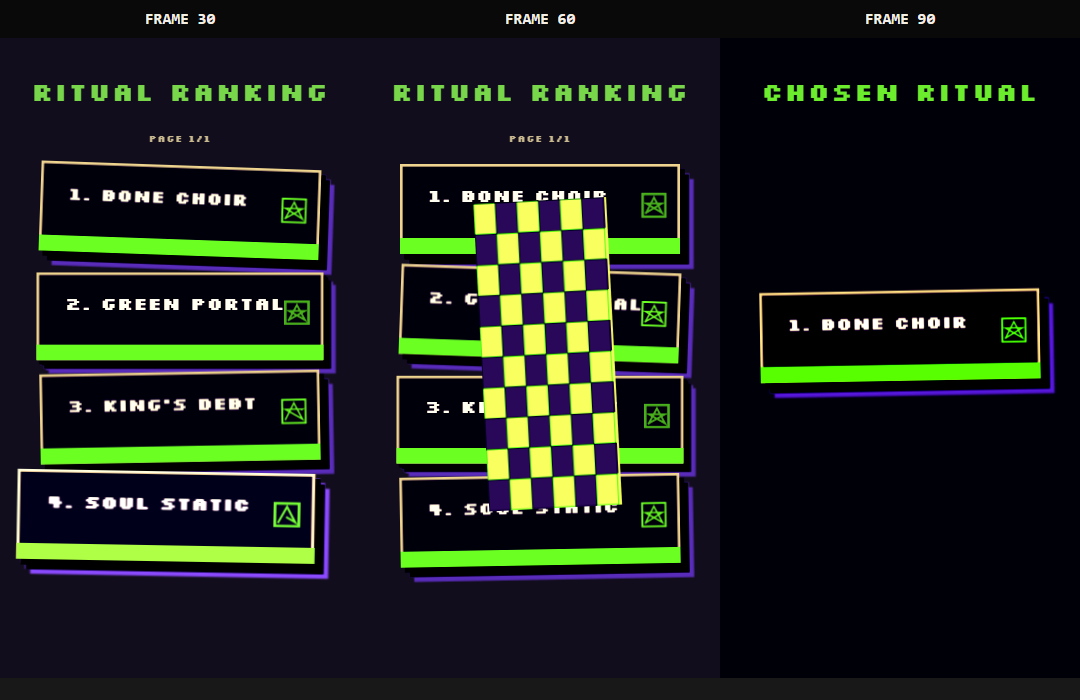
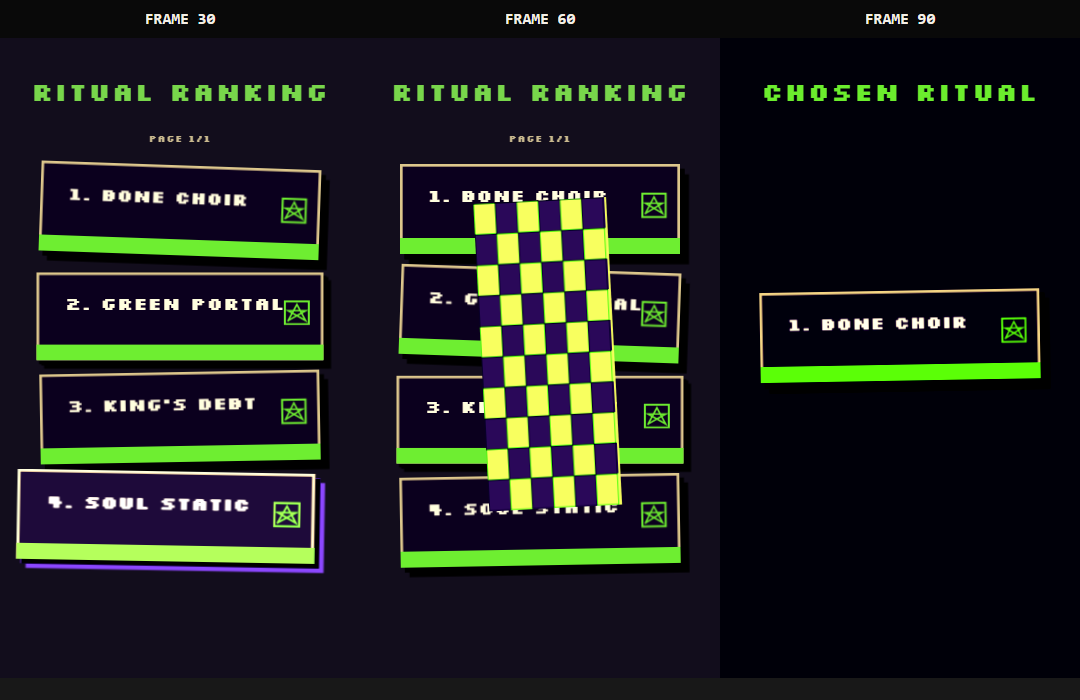
Add Norman-shaped online agent output

diff --git a/misc/test-runs/tests/compositions.test.js b/misc/test-runs/tests/compositions.test.js
@@ -3,13 +3,17 @@ import test from 'node:test';
 
 import { ArchivalDossierComposition } from '@cut3/agent-memory/compositions/ArchivalDossierComposition';
 import { RetroRitualRankingComposition } from '@cut3/agent-memory/compositions/RetroRitualRankingComposition';
+import { ritualOffer } from '@cut3/agent-memory/compositions/RitualOffer';
 import { SignalEditorialComposition } from '@cut3/agent-memory/compositions/SignalEditorialComposition';
 import { Engine, visitUnits } from '@cut3/agent-memory/core/Engine';
+import { projectUnit } from '@cut3/agent-memory/core/frame';
 import { memoryCatalog } from '@cut3/agent-memory/catalog';
 import { Box } from '@cut3/agent-memory/units/base/Box';
+import { CompositionPivot } from '@cut3/agent-memory/units/base/CompositionPivot';
 import { Layer } from '@cut3/agent-memory/units/base/Layer';
 import { Text } from '@cut3/agent-memory/units/base/Text';
 import { SignalHeadlineBand } from '@cut3/agent-memory/units/signal-editorial/SignalHeadlineBand';
+import { RitualOfferCard } from '@cut3/agent-memory/units/retro-ritual/RitualOfferCard';
 
 const compositions = [
   ['signal-editorial', SignalEditorialComposition, 60],
@@ -37,6 +41,39 @@ for (const [name, CompositionClass, transitionFrame] of compositions) {
   });
 }
 
+test('online-agent output is a plain Norman-shaped builder with explicit ordered Behaviours', () => {
+  const undecorated = new RitualOfferCard(new Text('STATIC TREE'));
+  const unit = ritualOffer('RUNTIME TEXT');
+  const behaviourKinds = unit.behaviours.map((behaviour) => behaviour.constructor.kind);
+  const hiddenBehaviourKinds = [];
+  const texts = [];
+  visitUnits(undecorated, (child) => {
+    hiddenBehaviourKinds.push(
+      ...child.behaviours.map((behaviour) => behaviour.constructor.kind),
+    );
+  });
+  visitUnits(unit, (child) => {
+    if (child instanceof Text) texts.push(child.text);
+  });
+
+  assert.ok(unit instanceof RitualOfferCard);
+  assert.deepEqual(
+    hiddenBehaviourKinds,
+    [],
+    'Unit constructor must not hide optional motion anywhere in its tree',
+  );
+  assert.deepEqual(behaviourKinds, [
+    'behaviour.retro-ritual.ritual-card-deal',
+    'behaviour.retro-ritual.bone-idle-hop',
+  ]);
+  assert.deepEqual(texts, ['RUNTIME TEXT']);
+  assert.ok(unit.children.length > 0, 'builder must return a nested Unit tree');
+  assert.equal(projectUnit(unit, { frame: 0 }).opacity, 0);
+  assert.notEqual(projectUnit(unit, { frame: 8 }).pose.x, 0);
+  assert.match(projectUnit(unit, { frame: 24 }).effects.shadow, /#09060f/u);
+  assert.throws(() => ritualOffer({ text: 'not a string' }), /must be a string/u);
+});
+
 test('ranking cardinality is data: two and twenty items use the same RitualOfferCard', () => {
   const two = new RetroRitualRankingComposition({ items: ['A', 'B'] });
   const twenty = new RetroRitualRankingComposition({
@@ -56,8 +93,8 @@ test('ranking cardinality is data: two and twenty items use the same RitualOffer
 
   const engine = new Engine(twenty);
   for (const frame of [30, 102, 174, 246, 318]) {
-    const cards = findOutput(engine.at({ frame }), (node) => node.name === 'ritual-offer-card')
-      .map((node) => node.frame.y)
+    const cards = findOutput(engine.at({ frame }), (node) => node.name === 'ritual-offer-placement')
+      .map((node) => node.pose.y)
       .sort((left, right) => left - right);
     assert.ok(cards.length >= 1 && cards.length <= 4);
     for (let index = 1; index < cards.length; index += 1) {
@@ -67,7 +104,8 @@ test('ranking cardinality is data: two and twenty items use the same RitualOffer
 });
 
 test('catalog contains code locations and visual traits, never scores or confidence', () => {
-  assert.equal(memoryCatalog.length, 24);
+  assert.equal(memoryCatalog.length, 21);
+  assert.ok(memoryCatalog.every((entry) => ['behaviour', 'unit'].includes(entry.type)));
   assert.ok(memoryCatalog.every((entry) => entry.import.startsWith('@cut3/agent-memory/')));
   assert.ok(memoryCatalog.every((entry) => entry.preserves.length >= 2));
   assert.doesNotMatch(JSON.stringify(memoryCatalog), /confidence|score|probability/iu);
@@ -109,7 +147,7 @@ test('every CompositionPivot is rooted in an unshifted full-composition containi
     RetroRitualRankingComposition,
   ]) {
     visitUnits(new CompositionClass(), (unit) => {
-      if (unit.constructor.kind !== 'unit.composition-pivot') return;
+      if (!(unit instanceof CompositionPivot)) return;
       for (let ancestor = unit.parent; ancestor; ancestor = ancestor.parent) {
         if (!(ancestor instanceof Box || ancestor instanceof Layer)) continue;
         assert.equal(ancestor.frame.x, 0);

diff --git a/src/units/retro-ritual/RitualOfferCard.js b/src/units/retro-ritual/RitualOfferCard.js
@@ -1,22 +1,17 @@
-import { requireUnit, Unit } from '@cut3/agent-memory/core/Unit';
+import { requireUnit } from '@cut3/agent-memory/core/Unit';
 import { requireDetachedUnit } from '@cut3/agent-memory/core/ownership';
-import { finite } from '@cut3/agent-memory/core/timeline';
-import { BoneIdleHop } from '@cut3/agent-memory/behaviours/retro-ritual/BoneIdleHop';
-import { RitualCardDeal } from '@cut3/agent-memory/behaviours/retro-ritual/RitualCardDeal';
-import { RuneTrace } from '@cut3/agent-memory/behaviours/retro-ritual/RuneTrace';
 import { Box } from '@cut3/agent-memory/units/base/Box';
 import { CompositionPivot } from '@cut3/agent-memory/units/base/CompositionPivot';
 import { Layer } from '@cut3/agent-memory/units/base/Layer';
 import { VectorPath } from '@cut3/agent-memory/units/base/VectorPath';
 
-/** Pixel-necromancy ranking card: bone frame, soul-green rune and held hop. */
-export class RitualOfferCard extends Unit {
+/** Static pixel-necromancy card; the builder chooses and orders its motion. */
+export class RitualOfferCard extends CompositionPivot {
   static kind = 'unit.retro-ritual.offer-card';
 
-  constructor(content, options = {}) {
+  constructor(content) {
     requireUnit(content, 'RitualOfferCard content');
     requireDetachedUnit(content, 'RitualOfferCard content');
-    const top = finite(options.y ?? 0, 'RitualOfferCard y');
     if (content.constructor.kind === 'unit.text') {
       content.frame = { x: 76, y: 58, width: 720, height: 154, z: 5 };
       content.paint = { ...content.paint, color: '#efe7cf' };
@@ -33,13 +28,13 @@ export class RitualOfferCard extends Unit {
     }
     const card = new Box(content, {
       effects: { shadow: '14px 14px 0 #09060f' },
-      frame: { x: 120, y: top, width: 840, height: 270, z: 4 },
+      frame: { x: 120, y: 0, width: 840, height: 270, z: 4 },
       overflow: 'hidden',
       paint: { fill: '#21172f', stroke: '#c9b98e', strokeWidth: 8 },
       name: 'ritual-offer-card',
     });
     const soulBar = new Box(undefined, {
-      frame: { x: 120, y: top + 222, width: 840, height: 48, z: 6 },
+      frame: { x: 120, y: 222, width: 840, height: 48, z: 6 },
       paint: { fill: '#78d64b' },
       name: 'soul-green-rank-bar',
     });
@@ -51,20 +46,19 @@ export class RitualOfferCard extends Unit {
       { command: 'line', x: 72, y: 32 },
       { command: 'close' },
     ], {
-      frame: { x: 844, y: top + 86, width: 76, height: 76, z: 8 },
+      frame: { x: 844, y: 86, width: 76, height: 76, z: 8 },
       paint: { stroke: '#78d64b', strokeWidth: 6 },
       viewBox: [0, 0, 80, 80],
     });
-    rune.add(new RuneTrace(rune));
     const cardStack = new Layer(card, {
       frame: { x: 0, y: 0, width: 1080, height: 1920 },
       name: 'ritual-card-stack',
     });
     cardStack.add(soulBar, rune);
-    const idlePivot = new CompositionPivot(cardStack, { x: 540, y: top + 135 });
-    idlePivot.add(new BoneIdleHop(idlePivot));
-    const dealPivot = new CompositionPivot(idlePivot, { x: 540, y: top + 135 });
-    dealPivot.add(new RitualCardDeal(dealPivot));
-    super(dealPivot);
+    super(cardStack, {
+      name: 'ritual-offer-card-motion',
+      x: 540,
+      y: 135,
+    });
   }
 }

diff --git a/src/online/agent-prompt.js b/src/online/agent-prompt.js
@@ -29,17 +29,33 @@ Behaviour contract:
 - never create Opacity, Scale, Translate, Blur, CSSProperty, Interpolate or library-import wrappers.
 
 Unit contract:
-- extend Unit directly and construct a real nested Unit tree;
+- extend a renderer-neutral renderable Unit base and construct a real nested Unit tree;
 - accept runtime content as Units; never embed customer text, URLs or transcripts;
 - use CompositionPivot for transforms and express its pivot in absolute composition coordinates;
+- keep optional entry/idle Behaviours out of the Unit constructor so the output function chooses and orders them explicitly;
 - keep renderer/backend fields out of Units and Behaviours.
+
+Required workspace output:
+- export a plain ESM builder function whose first argument is runtime content;
+- inside it, construct the root Unit, instantiate each named Behaviour with that exact Unit, call unit.addBehaviour(...) in authored order, and return the Unit;
+- the builder is executable application code, not a Composition class, descriptor, schema or JSON response;
+
+Shape:
+export function build(runtimeText) {
+  const unit = new StyledUnit(new Text(runtimeText));
+  const entry = new AuthoredEntry(unit);
+  const idle = new AuthoredIdle(unit);
+  unit.addBehaviour(entry);
+  unit.addBehaviour(idle);
+  return unit;
+}
 
 Module contract:
 - use only global @cut3/agent-memory/... ESM imports;
-- no dynamic imports, factories, registries, AST parsing or generated JSON;
+- no dynamic imports, factory registries, runtime factory abstractions, AST parsing or generated JSON;
 - write Behaviours to src/behaviours/<style>/, Units to src/units/<style>/;
 - update src/catalog.js by hand with import path, exact use cases and preserved visual traits;
-- add or update a composition under src/compositions/ that visibly proves reuse at different content/cardinality;
+- add or update a plain builder under src/compositions/ that visibly proves reuse at different content/cardinality;
 - add node:test coverage under misc/test-runs/tests/.
 - run npm test and npm run showcase inside the candidate; inspect its change set for customer text, URLs, transcripts and credentials.
 

diff --git a/src/compositions/RetroRitualRankingComposition.js b/src/compositions/RetroRitualRankingComposition.js
@@ -1,10 +1,11 @@
 import { Box } from '@cut3/agent-memory/units/base/Box';
 import { Composition } from '@cut3/agent-memory/units/base/Composition';
+import { ritualOffer } from '@cut3/agent-memory/compositions/RitualOffer';
+import { CompositionPivot } from '@cut3/agent-memory/units/base/CompositionPivot';
 import { Layer } from '@cut3/agent-memory/units/base/Layer';
 import { Shot } from '@cut3/agent-memory/units/base/Shot';
 import { Text } from '@cut3/agent-memory/units/base/Text';
 import { PortalTileTransition } from '@cut3/agent-memory/units/retro-ritual/PortalTileTransition';
-import { RitualOfferCard } from '@cut3/agent-memory/units/retro-ritual/RitualOfferCard';
 
 /** Arbitrary-cardinality ranking assembled from one reusable ritual card Unit. */
 export class RetroRitualRankingComposition extends Composition {
@@ -53,7 +54,7 @@ function rankingPage(items, pageIndex, pageCount, duration) {
   const root = ritualBackground('RITUAL RANKING', `PAGE ${pageIndex + 1}/${pageCount}`);
   items.forEach((item, index) => {
     const rank = (pageIndex * 4) + index + 1;
-    const card = new RitualOfferCard(new Text(`${rank}. ${String(item)}`), {
+    const card = place(ritualOffer(`${rank}. ${String(item)}`), {
       y: 390 + (index * 310),
     });
     root.add(new Shot(card, {
@@ -67,8 +68,15 @@ function rankingPage(items, pageIndex, pageCount, duration) {
 
 function winnerScene(winner) {
   const root = ritualBackground('CHOSEN RITUAL');
-  root.add(new RitualOfferCard(new Text(`1. ${String(winner)}`), { y: 770 }));
+  root.add(place(ritualOffer(`1. ${String(winner)}`), { y: 770 }));
   return root;
+}
+
+function place(unit, pose) {
+  return new CompositionPivot(unit, {
+    name: 'ritual-offer-placement',
+    pose,
+  });
 }
 
 function ritualBackground(title, page = '') {

diff --git a/src/behaviours/retro-ritual/BoneIdleHop.js b/src/behaviours/retro-ritual/BoneIdleHop.js
@@ -6,26 +6,28 @@ export class BoneIdleHop extends Behaviour {
   static kind = 'behaviour.retro-ritual.bone-idle-hop';
 
   constructor(unit) {
-    super(requireOwnerKind(unit, 'unit.composition-pivot', 'BoneIdleHop'));
+    super(requireOwnerKind(unit, 'unit.retro-ritual.offer-card', 'BoneIdleHop'));
   }
 
   onFrame({ frame }) {
     const phase = (Math.floor(frame / 2) % 12) / 12;
     const hop = Math.max(0, Math.sin(phase * Math.PI));
     const height = Math.round(hop * -12);
+    const groundedSquash = hop === 0 ? 0.025 : 0;
     this.unit.pose = {
       ...this.unit.pose,
-      rotate: Math.round(Math.sin(phase * Math.PI * 2) * 1.5),
-      scaleX: 1 + (hop === 0 ? 0.025 : 0),
-      scaleY: 1 - (hop === 0 ? 0.025 : 0),
-      y: height,
+      rotate: this.unit.pose.rotate + Math.round(Math.sin(phase * Math.PI * 2) * 1.5),
+      scaleX: this.unit.pose.scaleX * (1 + groundedSquash),
+      scaleY: this.unit.pose.scaleY * (1 - groundedSquash),
+      y: this.unit.pose.y + height,
     };
     this.unit.effects = {
       ...this.unit.effects,
       blur: 0,
-      brightness: 1,
-      contrast: 1.24,
-      shadow: `${8 + Math.round(hop * 5)}px ${10 + Math.round(hop * 7)}px 0 #09060f`,
+      contrast: Math.max(this.unit.effects.contrast, 1.24),
+      shadow: frame < 16
+        ? this.unit.effects.shadow
+        : `${8 + Math.round(hop * 5)}px ${10 + Math.round(hop * 7)}px 0 #09060f`,
     };
   }
 }

diff --git a/src/catalog.js b/src/catalog.js
@@ -86,18 +86,6 @@ const entries = [
     ['transition to ranking winner'],
     ['six-by-ten mosaic', 'hard pixel border', 'green-purple checker']),
 
-  memory('unit.composition.signal-editorial', 'composition', 'signal-editorial',
-    '@cut3/agent-memory/compositions/SignalEditorialComposition',
-    ['vertical social opener'],
-    ['media plate', 'headline band', 'razor transition']),
-  memory('unit.composition.archival-dossier', 'composition', 'archival-dossier',
-    '@cut3/agent-memory/compositions/ArchivalDossierComposition',
-    ['podcast quote video', 'documentary excerpt'],
-    ['photo evidence', 'carbon transcript', 'casefile shutter']),
-  memory('unit.composition.retro-ritual-ranking', 'composition', 'retro-ritual',
-    '@cut3/agent-memory/compositions/RetroRitualRankingComposition',
-    ['ranking video', 'list reveal'],
-    ['arbitrary card count', 'ritual cards', 'portal winner cut']),
 ];
 
 export const memoryCatalog = Object.freeze(entries);

diff --git a/src/compositions/RitualOffer.js b/src/compositions/RitualOffer.js
@@ -1,0 +1,18 @@
+import { BoneIdleHop } from '@cut3/agent-memory/behaviours/retro-ritual/BoneIdleHop';
+import { RitualCardDeal } from '@cut3/agent-memory/behaviours/retro-ritual/RitualCardDeal';
+import { Text } from '@cut3/agent-memory/units/base/Text';
+import { RitualOfferCard } from '@cut3/agent-memory/units/retro-ritual/RitualOfferCard';
+
+/** Plain Norman-shaped output produced by an online coding agent. */
+export function ritualOffer(text) {
+  if (typeof text !== 'string') throw new TypeError('ritualOffer text must be a string');
+
+  const unit = new RitualOfferCard(new Text(text));
+  const entry = new RitualCardDeal(unit);
+  const animation = new BoneIdleHop(unit);
+
+  unit.addBehaviour(entry);
+  unit.addBehaviour(animation);
+
+  return unit;
+}

diff --git a/misc/test-runs/tests/online.test.js b/misc/test-runs/tests/online.test.js
@@ -381,6 +381,9 @@ test('agent prompt describes an isolated code-writing candidate, not AST admissi
   assert.match(prompt, /compile, tests, render, privacy and semantic evidence/iu);
   assert.match(prompt, /preserves:/iu);
   assert.match(prompt, /context\.frame for Shot-local motion/iu);
+  assert.match(prompt, /plain ESM builder function/iu);
+  assert.match(prompt, /unit\.addBehaviour\(entry\)/u);
+  assert.match(prompt, /not a Composition class, descriptor, schema or JSON response/iu);
   assert.doesNotMatch(prompt, /confidence|probability|source parser/iu);
   assert.doesNotMatch(prompt, /task summary|composition module/iu);
 });

diff --git a/src/behaviours/retro-ritual/RitualCardDeal.js b/src/behaviours/retro-ritual/RitualCardDeal.js
@@ -7,7 +7,7 @@ export class RitualCardDeal extends Behaviour {
   static kind = 'behaviour.retro-ritual.ritual-card-deal';
 
   constructor(unit) {
-    super(requireOwnerKind(unit, 'unit.composition-pivot', 'RitualCardDeal'));
+    super(requireOwnerKind(unit, 'unit.retro-ritual.offer-card', 'RitualCardDeal'));
   }
 
   onFrame({ frame }) {

diff --git a/VERIFY.md b/VERIFY.md
@@ -16,6 +16,8 @@ The catalog is now ordinary static ESM in `src/catalog.js`. It contains only:
 
 There are no confidence scores, generated metadata or dynamic loaders.
 
+The catalog contains only reusable Units and Behaviours. Full compositions and output builders are application code that consumes memory, not memory entries themselves.
+
 ## Source model
 
 Norman the Necromancer does not define a formal CBA specification or a Unit tree. Its actual model is a flat list of `GameObject` instances, each owning an ordered list of Behaviours. The reusable idea is semantic ownership: `March`, `Bleeding`, `Seeking` and `Summon` retain complete actions instead of wrapping individual fields.
@@ -27,6 +29,8 @@ Reference inspected for this rewrite:
 
 Cut3 keeps the owner-based Behaviour idea and deliberately adds a renderer-neutral Unit tree because video compositions need hierarchy, media slots and nested transitions. That tree is the Cut3 adaptation, not a claim about Norman.
 
+Norman's application output lives in plain functions such as `Spell()`, `Villager()` and `Piper()` in `src/objects.ts`: construct an object, construct named Behaviours with that object, attach them in order, return the object. The Cut3 online agent now has the same output contract, with nested Units added for video.
+
 ```text
 src/
 ├── core/          Unit, Behaviour, deterministic frame engine
@@ -34,7 +38,7 @@ src/
 │   ├── base/      renderer-neutral infrastructure
 │   └── <style>/   authored reusable visual trees
 ├── behaviours/    complete named visual laws grouped by style
-├── compositions/  executable 9:16 demonstrations
+├── compositions/  plain output builders and executable 9:16 demonstrations
 ├── drivers/       React and Remotion boundaries
 ├── fonts/         vendored-font manifest and preload contract
 ├── online/        exact feedback policy and coding-agent prompt
@@ -55,7 +59,26 @@ import { EditorialImpactSettle }
   from '@cut3/agent-memory/behaviours/signal-editorial/EditorialImpactSettle';
 ```
 
-The package has no root barrel, registry, factory or dynamic import. Consumers import only the classes they use.
+The package has no root barrel, factory registry, runtime factory abstraction or dynamic import. Plain application builder functions are deliberately allowed; consumers still import only the classes they use.
+
+## Actual online-agent output
+
+`src/compositions/RitualOffer.js` is a runnable example of the exact artifact expected from the online coding agent:
+
+```js
+export function ritualOffer(text) {
+  const unit = new RitualOfferCard(new Text(text));
+  const entry = new RitualCardDeal(unit);
+  const animation = new BoneIdleHop(unit);
+
+  unit.addBehaviour(entry);
+  unit.addBehaviour(animation);
+
+  return unit;
+}
+```
+
+The first argument is runtime data, not a schema. `RitualOfferCard` owns the nested visual tree but does not secretly select its entry or idle animation. The builder makes Behaviour choice and order readable application code. `RetroRitualRankingComposition` uses this same function for every ranking item and the winner; the example is not disconnected test scaffolding.
 
 ## What counts as memory
 
